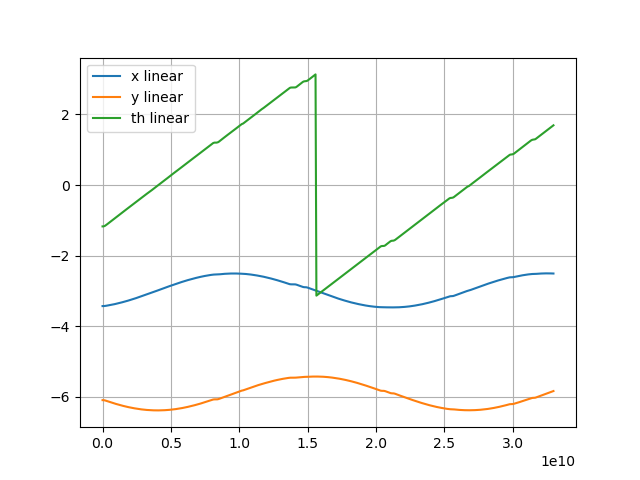
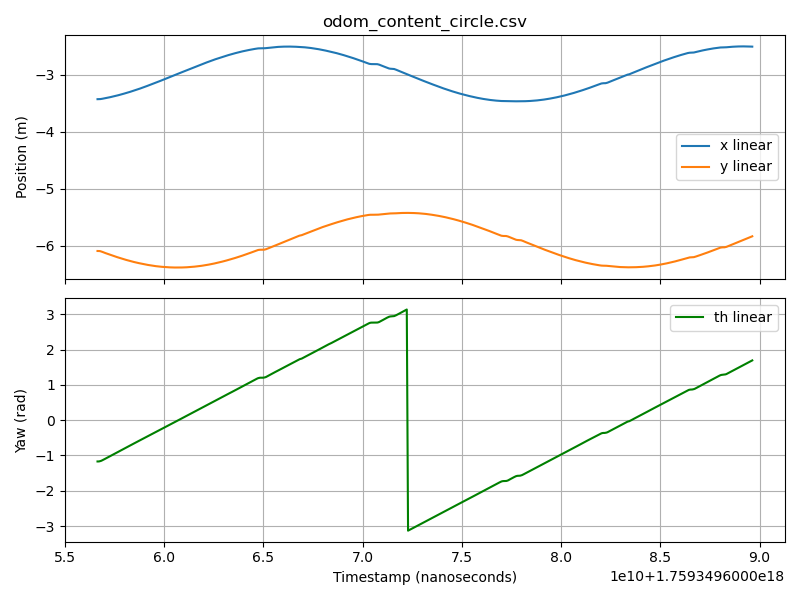
update plots to have titles

diff --git a/filePlotter.py b/filePlotter.py
@@ -7,20 +7,59 @@ from utilities import FileReader
 
 def plot_errors(filename):
     
-    headers, values=FileReader(filename).read_file() 
-    time_list=[]
-    first_stamp=values[0][-1]
-    
+    headers, values = FileReader(filename).read_file()
+    time_list = []
+    first_stamp = values[0][-1]
     for val in values:
-        time_list.append(val[-1] - first_stamp)
+        time_list.append(val[-1])
 
-    for i in range(0, len(headers) - 1):
-        plt.plot(time_list, [lin[i] for lin in values], label= headers[i]+ " linear")
-    
-    #plt.plot([lin[0] for lin in values], [lin[1] for lin in values])
-    plt.legend()
-    plt.grid()
-    plt.show()
+    import os
+    base_name = os.path.basename(filename)
+    if "imu_content" in filename:
+        # Plot acc_x and acc_y in the top subplot
+        fig, (ax1, ax2) = plt.subplots(2, 1, sharex=True, figsize=(8, 6))
+        ax1.plot(time_list, [lin[0] for lin in values], label="acc_x linear")
+        ax1.plot(time_list, [lin[1] for lin in values], label="acc_y linear")
+        ax1.set_ylabel("Acceleration (m/s^2)")
+        ax1.set_title(f"{base_name}")
+        ax1.legend()
+        ax1.grid()
+
+        # Plot angular_z in the bottom subplot
+        ax2.plot(time_list, [lin[2] for lin in values], label="angular_z linear", color='g')
+        ax2.set_xlabel("Timestamp (nanoseconds)")
+        ax2.set_ylabel("Angular Velocity (rad/s)")
+        ax2.legend()
+        ax2.grid()
+
+        plt.tight_layout()
+        plt.show()
+    elif "odom_content" in filename:
+        # Plot x and y in the top subplot, th in the bottom
+        fig, (ax1, ax2) = plt.subplots(2, 1, sharex=True, figsize=(8, 6))
+        ax1.plot(time_list, [lin[0] for lin in values], label="x linear")
+        ax1.plot(time_list, [lin[1] for lin in values], label="y linear")
+        ax1.set_ylabel("Position (m)")
+        ax1.set_title(f"{base_name}")
+        ax1.legend()
+        ax1.grid()
+
+        # Plot th in the bottom subplot
+        ax2.plot(time_list, [lin[2] for lin in values], label="th linear", color='g')
+        ax2.set_xlabel("Timestamp (nanoseconds)")
+        ax2.set_ylabel("Yaw (rad)")
+        ax2.legend()
+        ax2.grid()
+
+        plt.tight_layout()
+        plt.show()
+    else:
+        # Default: plot all columns except the last (timestamp)
+        for i in range(0, len(headers) - 1):
+            plt.plot(time_list, [lin[i] for lin in values], label=headers[i] + " linear")
+        plt.legend()
+        plt.grid()
+        plt.show()
     
 import argparse
 
